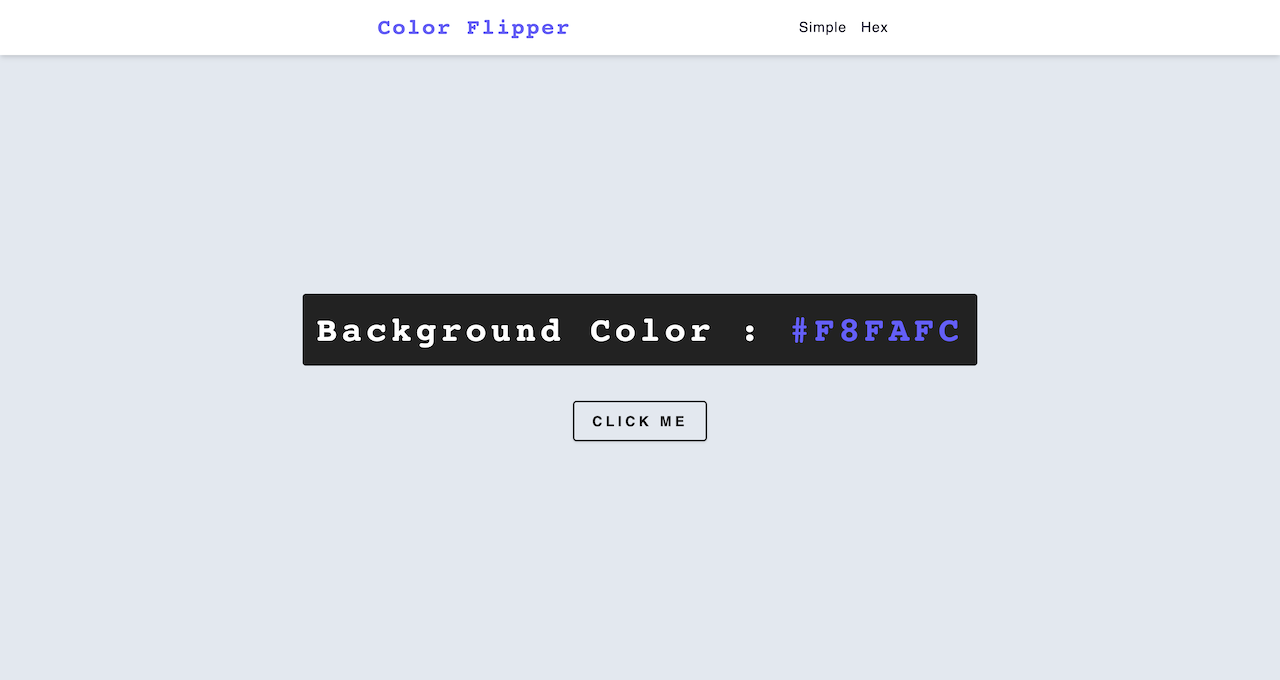
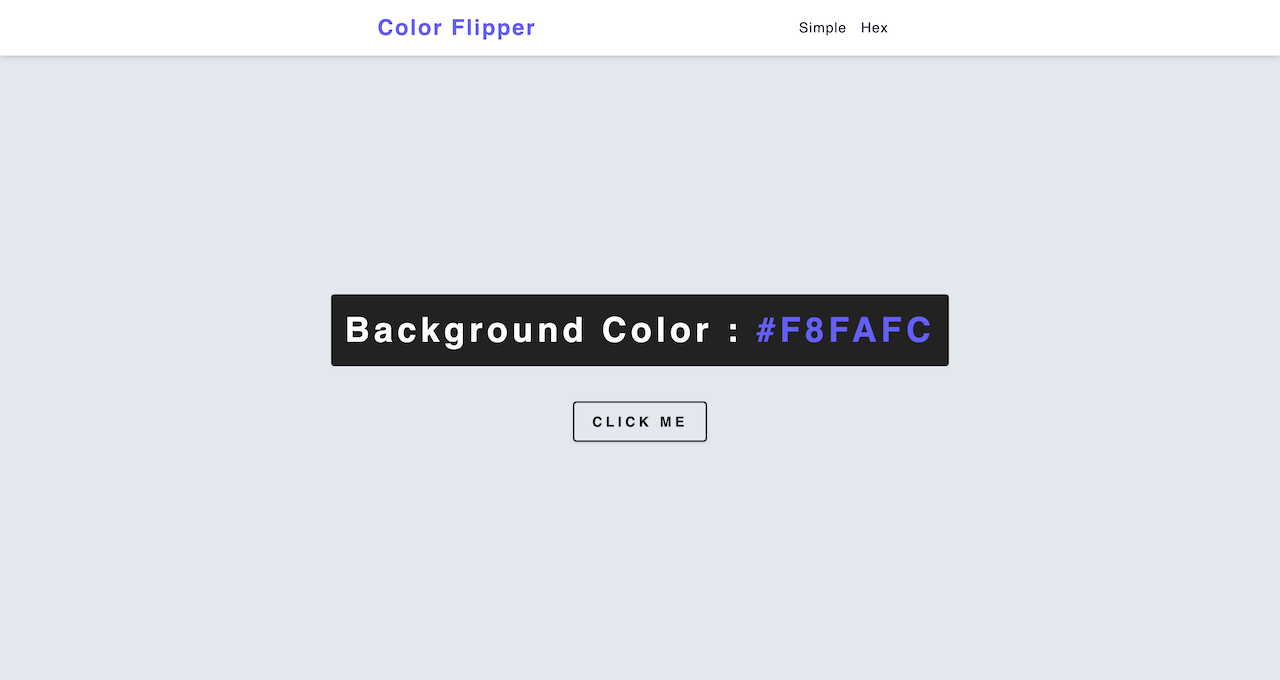
counter added

diff --git a/02-counter/main.css b/02-counter/main.css
@@ -4,7 +4,8 @@
   box-sizing: border-box;
 }
 /* fonts */
-@import url('https://fonts.googleapis.com/css2?family=Inconsolata:wght@400;500;600&family=Montserrat&display=swap');
+
+@import url('https://fonts.googleapis.com/css2?family=Roboto:wght@400;500;600&family=Montserrat&display=swap');
 html {
   font-size: 100%;
 } /*16px*/
@@ -41,8 +42,9 @@ html {
   --green-dark: #0f5132;
 
   /* fonts  */
-  --headingFont: 'Inconsolata', monospace;
-  --bodyFont: 'Montserrat', sans-serif;
+
+  --headingFont: 'Roboto', sans-serif;
+  --bodyFont: 'Nunito', sans-serif;
   --smallText: 0.7em;
   /* rest of the vars */
   --backgroundColor: var(--grey-50);
@@ -250,83 +252,39 @@ ul {
   margin: 0 auto;
   margin-top: -1rem;
 }
+/*
+=============== 
+Counter
+===============
+*/
 
-/*
-=============== 
-Nav
-===============
-*/
-nav {
-  background: var(--white);
-  height: 4rem;
-  display: grid;
-  align-items: center;
-  box-shadow: var(--shadow-2);
-}
-.nav-center {
-  width: 90vw;
-  max-width: var(--fixed-width);
-  margin: 0 auto;
-  display: flex;
-  align-items: center;
-  justify-content: space-between;
-}
-.nav-center h4 {
-  margin-bottom: 0;
-  color: var(--primary-500);
-  letter-spacing: 2px;
-  font-weight: 600;
-}
-.nav-links {
-  display: flex;
-}
-nav a {
-  text-transform: capitalize;
-  font-size: 1rem;
-  color: var(--primary-900);
-  letter-spacing: var(--letterSpacing);
-  margin-right: 1rem;
-  transition: var(--transtion);
-}
-nav a:hover {
-  color: var(--primary-500);
-}
-/*
-=============== 
-Container
-===============
-*/
 main {
-  min-height: calc(100vh - 4rem);
+  min-height: 100vh;
   display: grid;
   place-items: center;
 }
 .container {
   text-align: center;
 }
-.container h2 {
-  background: var(--black);
-  color: var(--white);
-  padding: 1rem;
-  border-radius: var(--borderRadius);
-  margin-bottom: 2.5rem;
-  letter-spacing: 5px;
-  font-weight: bold;
+.container h1 {
+  font-size: 4rem;
+  font-weight: 600;
+  margin-bottom: 0;
 }
-.color {
-  color: var(--primary-500);
-  text-transform: uppercase;
+#value {
+  font-size: 7rem;
+  font-weight: 600;
+  line-height: 1.25;
 }
-.btn-hero {
+
+.counter-btn {
   text-transform: uppercase;
   background: transparent;
-  color: var(--black);
-  letter-spacing: 0.25rem;
-  font-weight: bold;
-  border: 2px solid var(--black);
-  padding: 0.75rem 1.25rem;
+  color: var(--textColor);
+  border: 2px solid var(--textColor);
+  margin: 0.5rem;
 }
-.btn-hero:hover {
+.counter-btn:hover {
+  background: var(--textColor);
   color: var(--white);
-  background: var(--black);
 }

diff --git a/01-color-flipper/main.css b/01-color-flipper/main.css
@@ -4,7 +4,7 @@
   box-sizing: border-box;
 }
 /* fonts */
-@import url('https://fonts.googleapis.com/css2?family=Inconsolata:wght@400;500;600&family=Montserrat&display=swap');
+@import url('https://fonts.googleapis.com/css2?family=Roboto:wght@400;500;600&family=Montserrat&display=swap');
 html {
   font-size: 100%;
 } /*16px*/
@@ -41,8 +41,8 @@ html {
   --green-dark: #0f5132;
 
   /* fonts  */
-  --headingFont: 'Inconsolata', monospace;
-  --bodyFont: 'Montserrat', sans-serif;
+  --headingFont: 'Roboto', sans-serif;
+  --bodyFont: 'Nunito', sans-serif;
   --smallText: 0.7em;
   /* rest of the vars */
   --backgroundColor: var(--grey-50);
@@ -256,3 +256,77 @@ ul {
 Nav
 ===============
 */
+nav {
+  background: var(--white);
+  height: 4rem;
+  display: grid;
+  align-items: center;
+  box-shadow: var(--shadow-2);
+}
+.nav-center {
+  width: 90vw;
+  max-width: var(--fixed-width);
+  margin: 0 auto;
+  display: flex;
+  align-items: center;
+  justify-content: space-between;
+}
+.nav-center h4 {
+  margin-bottom: 0;
+  color: var(--primary-500);
+  letter-spacing: 2px;
+  font-weight: 600;
+}
+.nav-links {
+  display: flex;
+}
+nav a {
+  text-transform: capitalize;
+  font-size: 1rem;
+  color: var(--primary-900);
+  letter-spacing: var(--letterSpacing);
+  margin-right: 1rem;
+  transition: var(--transtion);
+}
+nav a:hover {
+  color: var(--primary-500);
+}
+/*
+=============== 
+Container
+===============
+*/
+main {
+  min-height: calc(100vh - 4rem);
+  display: grid;
+  place-items: center;
+}
+.container {
+  text-align: center;
+}
+.container h2 {
+  background: var(--black);
+  color: var(--white);
+  padding: 1rem;
+  border-radius: var(--borderRadius);
+  margin-bottom: 2.5rem;
+  letter-spacing: 5px;
+  font-weight: bold;
+}
+.color {
+  color: var(--primary-500);
+  text-transform: uppercase;
+}
+.btn-hero {
+  text-transform: uppercase;
+  background: transparent;
+  color: var(--black);
+  letter-spacing: 0.25rem;
+  font-weight: bold;
+  border: 2px solid var(--black);
+  padding: 0.75rem 1.25rem;
+}
+.btn-hero:hover {
+  color: var(--white);
+  background: var(--black);
+}

diff --git a/styles.css b/styles.css
@@ -1,4 +1,4 @@
-@import url('https://fonts.googleapis.com/css?family=Montserrat:400|Inconsolata:400');
+@import url('https://fonts.googleapis.com/css2?family=Roboto:wght@400;500;600&family=Montserrat&display=swap');
 *,
 ::after,
 ::before {
@@ -44,8 +44,8 @@
 
   /* typography */
   --defaultFontSize: 87.5%;
-  --headingFont: 'Inconsolata', monospace;
-  --bodyFont: 'Montserrat', sans-serif;
+  --headingFont: 'Roboto', sans-serif;
+  --bodyFont: 'Nunito', sans-serif;
   --smallText: 0.7em;
   /* rest */
   --backgroundColor: var(--white);
@@ -217,6 +217,7 @@ Hero
 .hero-title h1 {
   color: var(--black-design);
   margin: 0;
+  letter-spacing: 2px;
 }
 .hero-title p {
   margin: 2rem 0;
@@ -232,13 +233,13 @@ Hero
   text-align: center;
   line-height: 1.25;
   font-style: italic;
-  font-weight: 900;
+  font-weight: 600;
 }
 .hero-btn {
   display: inline-block;
   background: var(--primary-design);
   color: var(--black-design);
-  font-weight: 700;
+  font-weight: 400;
   text-transform: uppercase;
   padding: 0.75rem 1.25rem;
 

diff --git a/02-counter/index.html b/02-counter/index.html
@@ -4,7 +4,7 @@
     <meta charset="UTF-8" />
     <meta http-equiv="X-UA-Compatible" content="IE=edge" />
     <meta name="viewport" content="width=device-width, initial-scale=1.0" />
-    <title>Color Flipper || Hex</title>
+    <title>Counter</title>
     <!-- normalize -->
     <link rel="stylesheet" href="./normalize.css" />
     <!-- font-awesome -->
@@ -16,6 +16,16 @@
     <link rel="stylesheet" href="./main.css" />
   </head>
   <body>
-    <h1>hex page</h1>
+    <main>
+      <div class="container">
+        <h1>counter</h1>
+        <span id="value">0</span>
+        <div class="button-container">
+          <button class="btn counter-btn decrease">decrease</button>
+          <button class="btn counter-btn reset">reset</button>
+          <button class="btn counter-btn increase">increase</button>
+        </div>
+      </div>
+    </main>
   </body>
 </html>

diff --git a/index.html b/index.html
@@ -37,9 +37,21 @@
       <div class="section-center">
         <!-- card -->
         <a href="./01-color-flipper/index.html" target="_blank" class="project">
-          <img src="./images/01-color-flipper.png" alt="color flipper" />
+          <img
+            loading="lazy"
+            src="./images/01-color-flipper.png"
+            alt="color flipper"
+          />
           <footer>
             <h4>color flipper</h4>
+          </footer>
+        </a>
+        <!--end of card -->
+        <!-- card -->
+        <a href="./02-counter/index.html" target="_blank" class="project">
+          <img loading="lazy" src="./images/02-counter.png" alt="counter" />
+          <footer>
+            <h4>counter</h4>
           </footer>
         </a>
         <!--end of card -->
